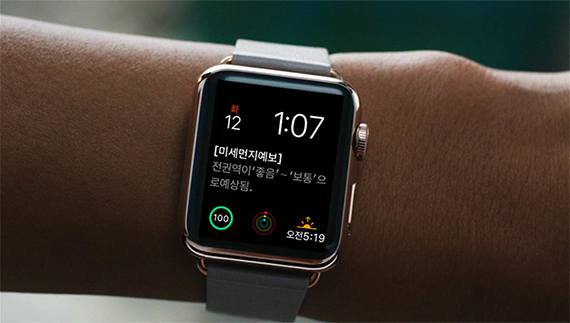
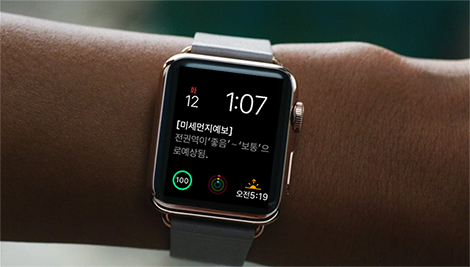
Site updated: 2016-07-16 07:21:50

diff --git a/2016/07/13/PMCarePreview/index.html b/2016/07/13/PMCarePreview/index.html
@@ -89,7 +89,7 @@
   
   <div class="post-content">
     
-      <div><br><div style="position:relative;float:top;"><br>&lt;미세먼지케어&gt; Preview…………<br>조만간 당신을 찾아갑니다.<br></div><br><div style="position:relative;float:bottom;top:5px;"><br><img src="/2016/07/13/PMCarePreview/preview.jpg" width="470px" height="258px"><br></div>
+      <div><br><div style="position:relative;float:top;"><br>&lt;미세먼지케어&gt; Preview…………<br>조만간 당신을 찾아갑니다.<br></div><br><div style="position:relative;float:bottom;top:5px;"><br><img src="/2016/07/13/PMCarePreview/preview.jpg" width="470px" height="267px"><br></div>
 
 <p></p></div><p></p>
 

diff --git a/archives/2016/07/index.html b/archives/2016/07/index.html
@@ -94,7 +94,7 @@
   
   <div class="post-content">
     
-      <div><br><div style="position:relative;float:top;"><br>&lt;미세먼지케어&gt; Preview…………<br>조만간 당신을 찾아갑니다.<br></div><br><div style="position:relative;float:bottom;top:5px;"><br><img src="/2016/07/13/PMCarePreview/preview.jpg" width="470px" height="258px"><br></div>
+      <div><br><div style="position:relative;float:top;"><br>&lt;미세먼지케어&gt; Preview…………<br>조만간 당신을 찾아갑니다.<br></div><br><div style="position:relative;float:bottom;top:5px;"><br><img src="/2016/07/13/PMCarePreview/preview.jpg" width="470px" height="267px"><br></div>
 
 <p></p></div><p></p>
 

diff --git a/archives/2016/index.html b/archives/2016/index.html
@@ -94,7 +94,7 @@
   
   <div class="post-content">
     
-      <div><br><div style="position:relative;float:top;"><br>&lt;미세먼지케어&gt; Preview…………<br>조만간 당신을 찾아갑니다.<br></div><br><div style="position:relative;float:bottom;top:5px;"><br><img src="/2016/07/13/PMCarePreview/preview.jpg" width="470px" height="258px"><br></div>
+      <div><br><div style="position:relative;float:top;"><br>&lt;미세먼지케어&gt; Preview…………<br>조만간 당신을 찾아갑니다.<br></div><br><div style="position:relative;float:bottom;top:5px;"><br><img src="/2016/07/13/PMCarePreview/preview.jpg" width="470px" height="267px"><br></div>
 
 <p></p></div><p></p>
 

diff --git a/archives/index.html b/archives/index.html
@@ -94,7 +94,7 @@
   
   <div class="post-content">
     
-      <div><br><div style="position:relative;float:top;"><br>&lt;미세먼지케어&gt; Preview…………<br>조만간 당신을 찾아갑니다.<br></div><br><div style="position:relative;float:bottom;top:5px;"><br><img src="/2016/07/13/PMCarePreview/preview.jpg" width="470px" height="258px"><br></div>
+      <div><br><div style="position:relative;float:top;"><br>&lt;미세먼지케어&gt; Preview…………<br>조만간 당신을 찾아갑니다.<br></div><br><div style="position:relative;float:bottom;top:5px;"><br><img src="/2016/07/13/PMCarePreview/preview.jpg" width="470px" height="267px"><br></div>
 
 <p></p></div><p></p>
 

diff --git a/index.html b/index.html
@@ -91,7 +91,7 @@
   
   <div class="post-content">
     
-      <div><br><div style="position:relative;float:top;"><br>&lt;미세먼지케어&gt; Preview…………<br>조만간 당신을 찾아갑니다.<br></div><br><div style="position:relative;float:bottom;top:5px;"><br><img src="/2016/07/13/PMCarePreview/preview.jpg" width="470px" height="258px"><br></div>
+      <div><br><div style="position:relative;float:top;"><br>&lt;미세먼지케어&gt; Preview…………<br>조만간 당신을 찾아갑니다.<br></div><br><div style="position:relative;float:bottom;top:5px;"><br><img src="/2016/07/13/PMCarePreview/preview.jpg" width="470px" height="267px"><br></div>
 
 <p></p></div><p></p>
 

diff --git a/tags/App/index.html b/tags/App/index.html
@@ -94,7 +94,7 @@
   
   <div class="post-content">
     
-      <div><br><div style="position:relative;float:top;"><br>&lt;미세먼지케어&gt; Preview…………<br>조만간 당신을 찾아갑니다.<br></div><br><div style="position:relative;float:bottom;top:5px;"><br><img src="/2016/07/13/PMCarePreview/preview.jpg" width="470px" height="258px"><br></div>
+      <div><br><div style="position:relative;float:top;"><br>&lt;미세먼지케어&gt; Preview…………<br>조만간 당신을 찾아갑니다.<br></div><br><div style="position:relative;float:bottom;top:5px;"><br><img src="/2016/07/13/PMCarePreview/preview.jpg" width="470px" height="267px"><br></div>
 
 <p></p></div><p></p>
 

diff --git a/tags/Watch/index.html b/tags/Watch/index.html
@@ -94,7 +94,7 @@
   
   <div class="post-content">
     
-      <div><br><div style="position:relative;float:top;"><br>&lt;미세먼지케어&gt; Preview…………<br>조만간 당신을 찾아갑니다.<br></div><br><div style="position:relative;float:bottom;top:5px;"><br><img src="/2016/07/13/PMCarePreview/preview.jpg" width="470px" height="258px"><br></div>
+      <div><br><div style="position:relative;float:top;"><br>&lt;미세먼지케어&gt; Preview…………<br>조만간 당신을 찾아갑니다.<br></div><br><div style="position:relative;float:bottom;top:5px;"><br><img src="/2016/07/13/PMCarePreview/preview.jpg" width="470px" height="267px"><br></div>
 
 <p></p></div><p></p>
 

diff --git a/tags/iOS/index.html b/tags/iOS/index.html
@@ -94,7 +94,7 @@
   
   <div class="post-content">
     
-      <div><br><div style="position:relative;float:top;"><br>&lt;미세먼지케어&gt; Preview…………<br>조만간 당신을 찾아갑니다.<br></div><br><div style="position:relative;float:bottom;top:5px;"><br><img src="/2016/07/13/PMCarePreview/preview.jpg" width="470px" height="258px"><br></div>
+      <div><br><div style="position:relative;float:top;"><br>&lt;미세먼지케어&gt; Preview…………<br>조만간 당신을 찾아갑니다.<br></div><br><div style="position:relative;float:bottom;top:5px;"><br><img src="/2016/07/13/PMCarePreview/preview.jpg" width="470px" height="267px"><br></div>
 
 <p></p></div><p></p>
 
